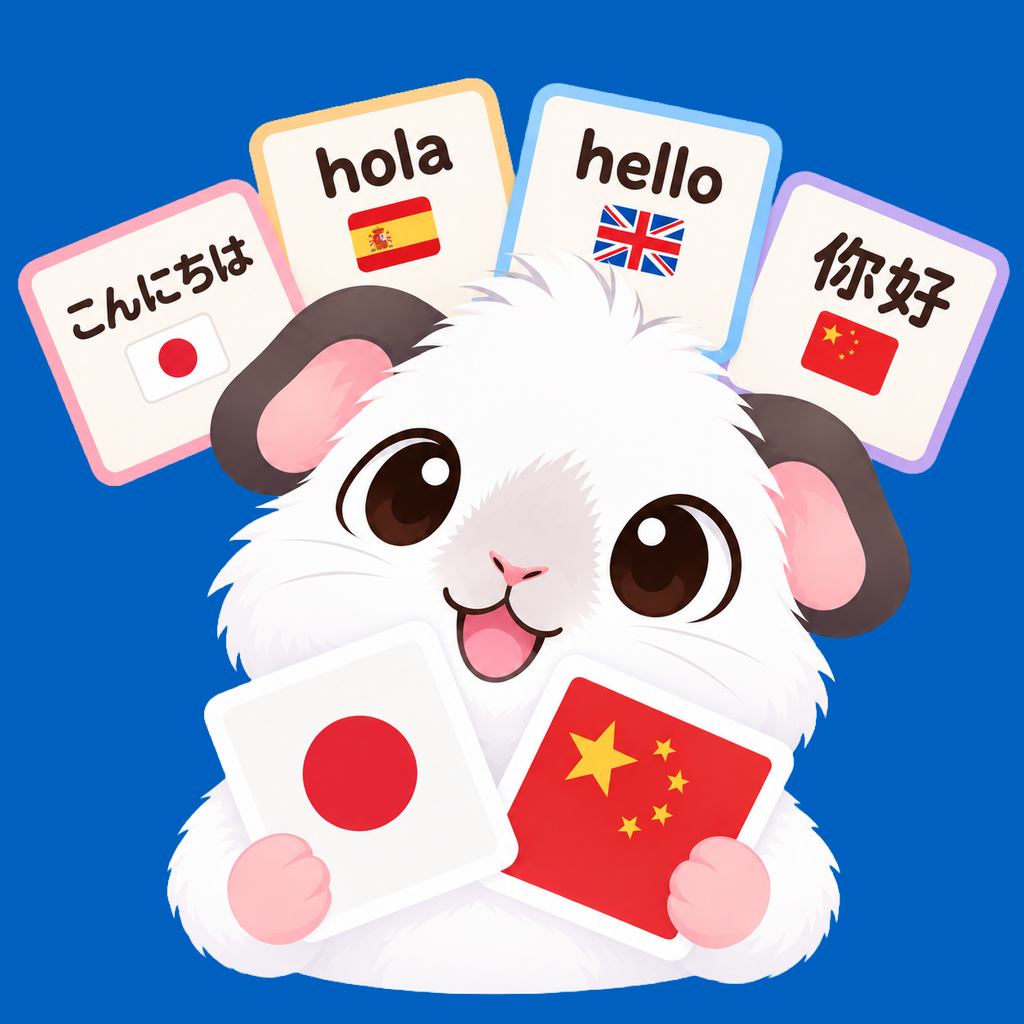
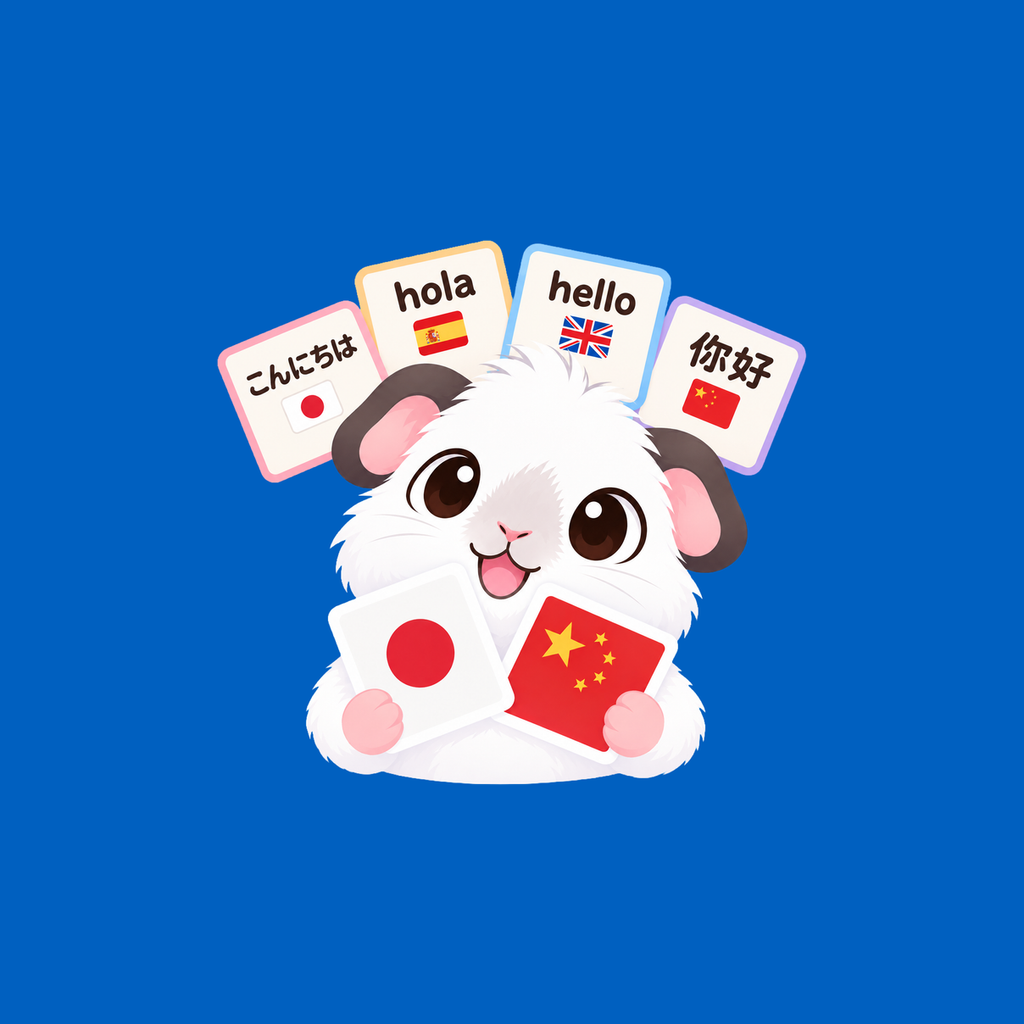
Se agrega pantalla de actualizacion

diff --git a/scripts/generateAdaptiveIcon.js b/scripts/generateAdaptiveIcon.js
@@ -1,0 +1,58 @@
+const sharp = require('sharp');
+const path = require('path');
+
+async function generate() {
+  const iconPath = path.join(__dirname, '../assets/images/icon.png');
+  const adaptiveIconPath = path.join(__dirname, '../assets/images/adaptive-icon.png');
+  const previewCirclePath = path.join(__dirname, '../assets/images/adaptive-icon-circle-preview.png');
+
+  // 1. Extraer el área del logo central de icon.png
+  const trimmedBuffer = await sharp(iconPath)
+    .extract({ left: 165, top: 207, width: 696, height: 643 })
+    .toBuffer();
+
+  // 2. Redimensionar el arte (default 590px para menor alejamiento)
+  const targetWidth = parseInt(process.argv[2], 10) || 590;
+  const resizedBuffer = await sharp(trimmedBuffer)
+    .resize(targetWidth, null, { fit: 'inside' })
+    .toBuffer();
+
+  const meta = await sharp(resizedBuffer).metadata();
+  const top = Math.round((1024 - meta.height) / 2);
+  const left = Math.round((1024 - meta.width) / 2);
+
+  const bgBlue = { r: 0, g: 96, b: 192, alpha: 1 };
+
+  const fs = require('fs');
+
+  // 3. Crear adaptive-icon.png con fondo completo #0060c0
+  const finalAdaptiveBuffer = await sharp({
+    create: {
+      width: 1024,
+      height: 1024,
+      channels: 4,
+      background: bgBlue
+    }
+  })
+    .composite([{ input: resizedBuffer, top, left }])
+    .png()
+    .toBuffer();
+
+  fs.writeFileSync(adaptiveIconPath, finalAdaptiveBuffer);
+
+  // 4. Crear simulación circular para previsualización (máscara de launcher Android)
+  const circleMask = Buffer.from(
+    '<svg width="1024" height="1024" viewBox="0 0 1024 1024"><circle cx="512" cy="512" r="341" fill="white"/></svg>'
+  );
+
+  const circlePreviewBuffer = await sharp(finalAdaptiveBuffer)
+    .composite([{ input: circleMask, blend: 'dest-in' }])
+    .png()
+    .toBuffer();
+
+  fs.writeFileSync(previewCirclePath, circlePreviewBuffer);
+
+  console.log('Adaptive icon and circular preview generated successfully!');
+}
+
+generate().catch(console.error);

diff --git a/src/app/(tabs)/profile.tsx b/src/app/(tabs)/profile.tsx
@@ -126,6 +126,28 @@ export default function ProfileScreen() {
           'Permiso de Google Drive pendiente',
           `Se vinculó la cuenta ${res.user.email}, pero no se otorgó permiso a Google Drive.\n\nAl iniciar sesión en Google, asegurate de marcar la casilla de verificación de Google Drive para permitir respaldar en la nube.`
         );
+      } else if (res.backupMeta && res.backupMeta.modifiedTime) {
+        const formattedDate = new Date(res.backupMeta.modifiedTime).toLocaleString(undefined, {
+          dateStyle: 'medium',
+          timeStyle: 'short',
+        });
+
+        Alert.alert(
+          'Copia de seguridad encontrada',
+          `Vinculado con ${res.user.email}.\n\nSe encontró una copia de seguridad en Google Drive del ${formattedDate}.\n\n¿Deseás restaurarla ahora en este dispositivo?`,
+          [
+            {
+              text: 'Ahora no',
+              style: 'cancel',
+            },
+            {
+              text: 'Restaurar',
+              onPress: () => {
+                handleRestoreFromGoogleDrive();
+              },
+            },
+          ]
+        );
       } else {
         Alert.alert('Google Drive Conectado', `Vinculado exitosamente con ${res.user.email}.`);
       }
@@ -169,7 +191,8 @@ export default function ProfileScreen() {
   };
 
   const handleRestoreFromGoogleDrive = async () => {
-    if (!googleUser) {
+    const user = googleUser || useGoogleDriveStore.getState().googleUser;
+    if (!user) {
       Alert.alert('Cuenta no conectada', 'Por favor conecta tu cuenta de Google primero.');
       return;
     }

diff --git a/src/stores/googleDriveStore.ts b/src/stores/googleDriveStore.ts
@@ -57,6 +57,7 @@ export interface GoogleDriveState {
     success: boolean;
     user?: GoogleUserProfile;
     missingDriveScope?: boolean;
+    backupMeta?: GoogleDriveBackupMetadata | null;
     error?: string;
   }>;
   disconnect: () => Promise<void>;
@@ -133,15 +134,20 @@ export const useGoogleDriveStore = create<GoogleDriveState>()(
           const scopeCheck = await checkTokenDriveScope(result.token);
           const missingDriveScope = scopeCheck.valid && !scopeCheck.hasDriveScope;
 
-          // Si no vino metadata en el login, consultar de inmediato a Drive
-          if (!result.metadata) {
-            get().refreshMeta(true).catch(() => {});
+          // Si no vino metadata en el login y tiene permiso, consultar de inmediato a Drive
+          let meta = result.metadata;
+          if (!meta && !missingDriveScope) {
+            const refreshed = await get().refreshMeta(true).catch(() => ({ success: false, meta: null }));
+            if (refreshed.success && refreshed.meta) {
+              meta = refreshed.meta;
+            }
           }
 
           return {
             success: true,
             user: result.profile,
             missingDriveScope,
+            backupMeta: meta ?? get().driveBackupMeta,
           };
         } catch (e: any) {
           if (e.message === 'USER_CANCELLED') {
